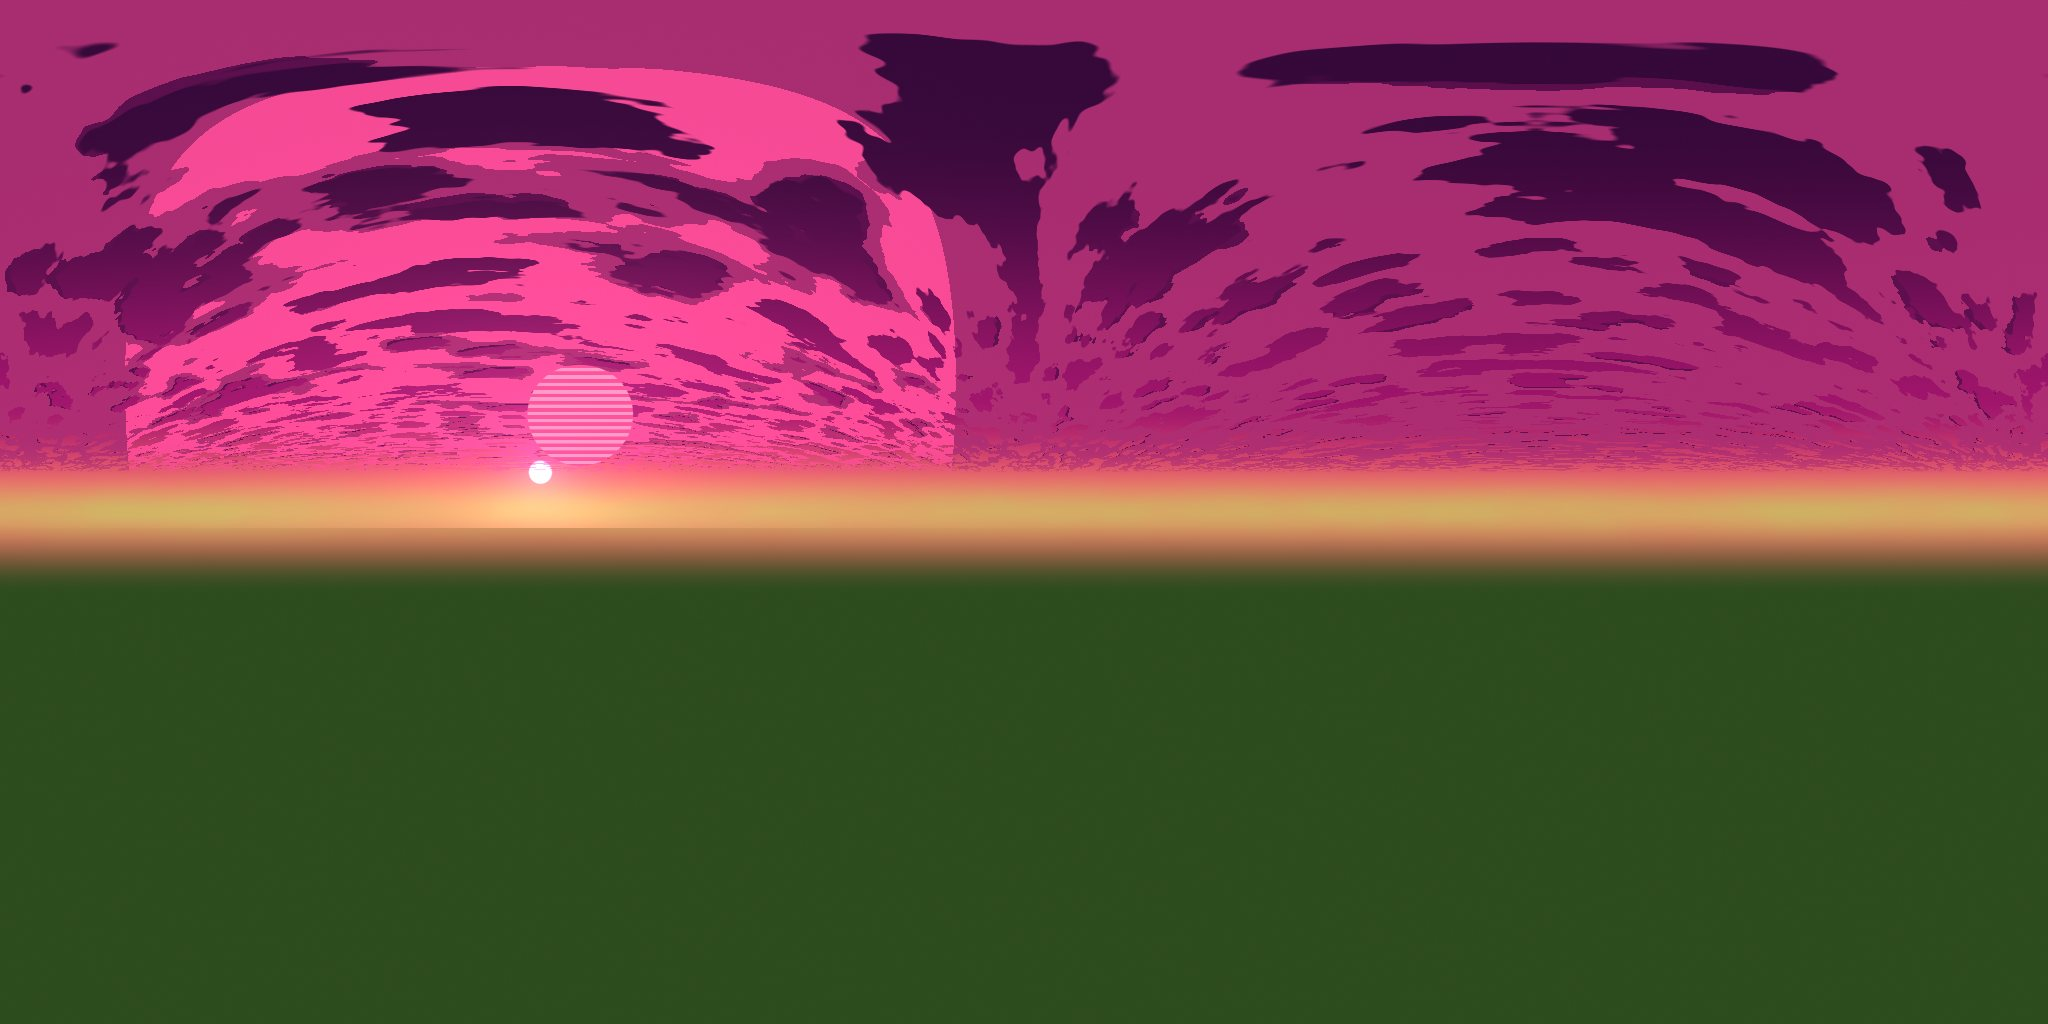
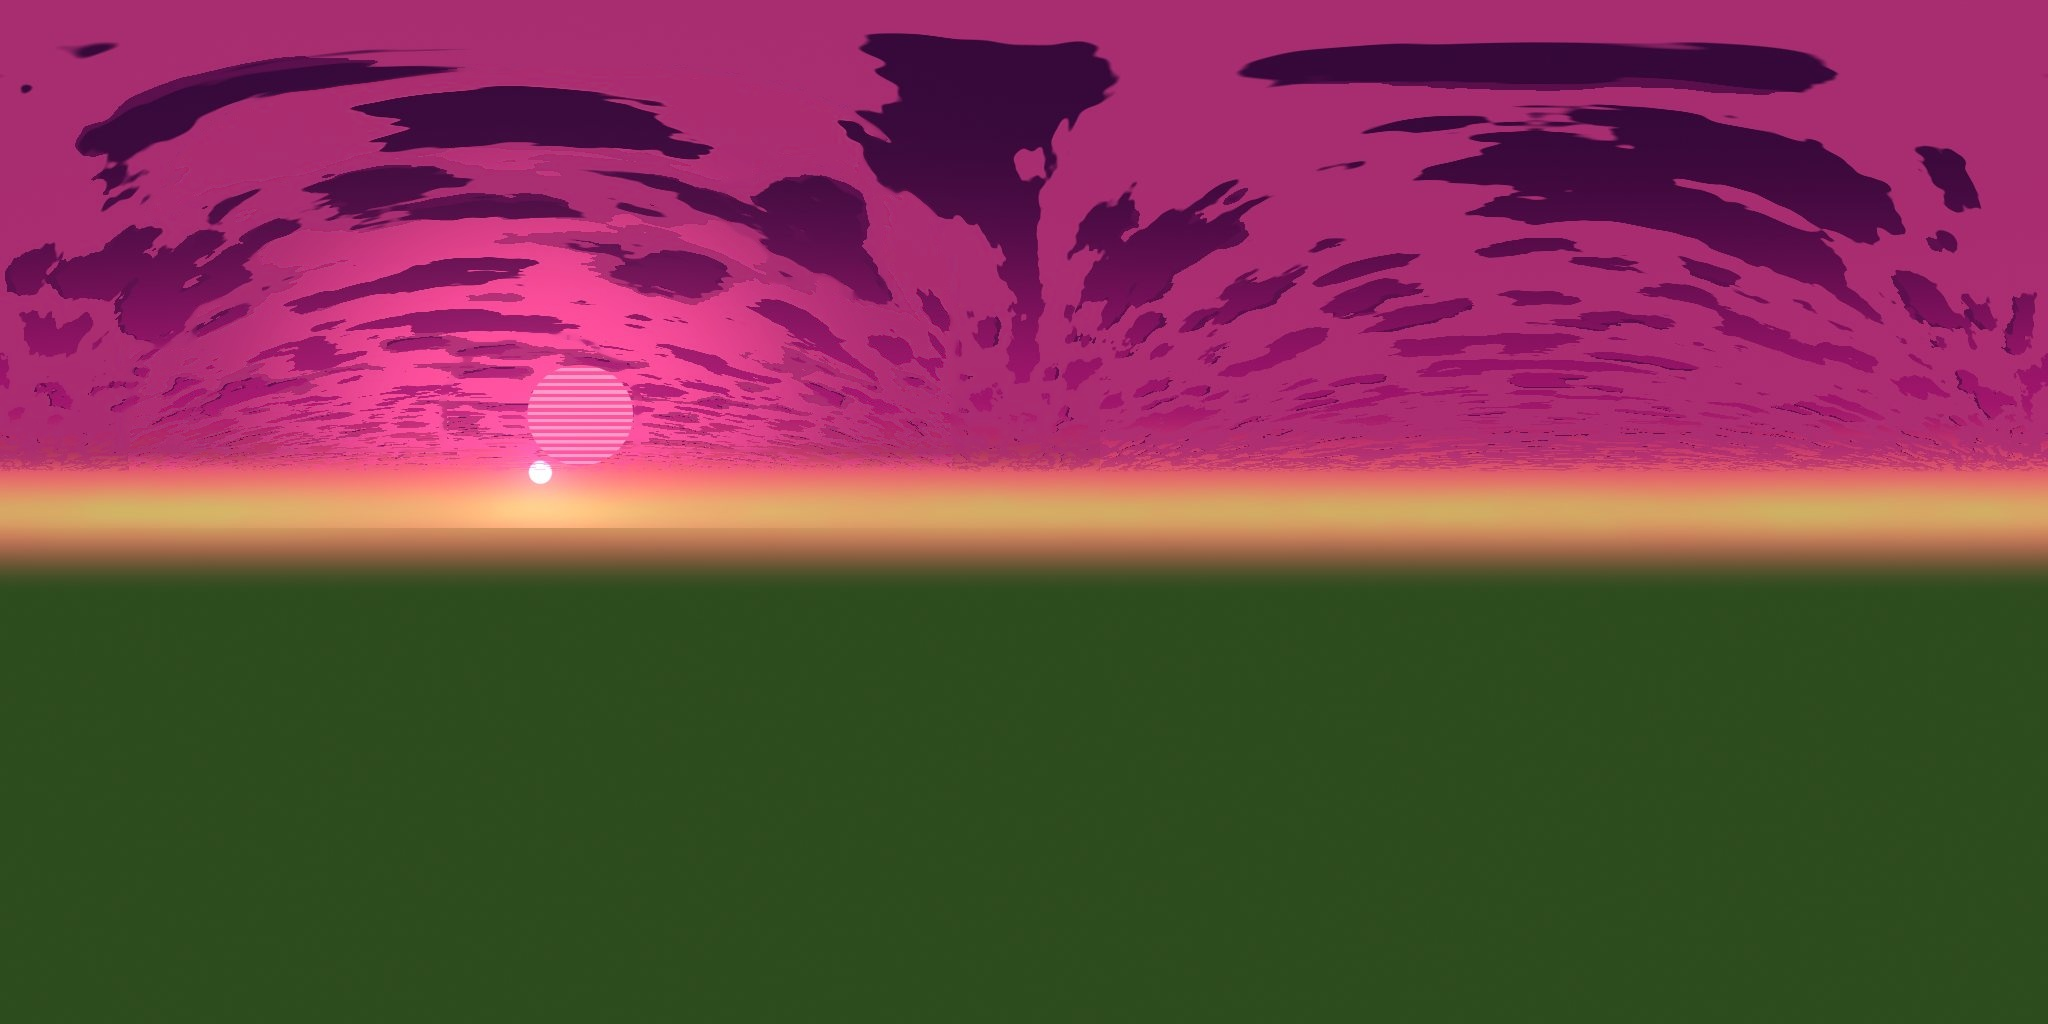
After the lift: effect pools refill cleanly, Skyforge freed; Skyforge sky without the two-tone patch
Crash firing the black hole after riding the lift into the next part:
- Effect pools (plasma bolts, flash lights, impacts, sparks, ...) are
  shared across levels; when Skyforge unloaded, their nodes went with
  it and the clean-up that drops dead entries failed on them (typed
  filter callbacks), so after the lift every shot raised errors.
- Skyforge's level models and the toxic barrel model were preloaded
  by their scripts, which stay cached after the level is gone: the
  next part ran with both levels in memory (~900 resources, ~26 MB
  of textures more). They're loaded when the level starts now.

Sky (owner asked): the panorama's bright pink patch behind the sun
had hard straight edges; it's now a soft glow round the sun
(tools/smooth_sky_glow.py, original kept in sky/source/).

Claude-Session: https://claude.ai/code/session_01Wu8RW4AcuKZbbVaeV4TQfo

Changed region(s): [[0.0625, 0.0625, 0.4688, 0.4688]]

diff --git a/tools/smooth_sky_glow.py b/tools/smooth_sky_glow.py
@@ -1,0 +1,41 @@
+"""Skyforge sky (owner asked): the map maker's panorama has a bright pink
+patch behind the sun with hard straight edges, so the sky read as two
+different colours. This keeps the bright pink only as a soft glow round the
+sun, fading smoothly into the rest of the sky; clouds, sun, planet stripes
+and the horizon are untouched.
+
+    python3 tools/smooth_sky_glow.py  (reads sky/source/panorama_original.jpg,
+                                       writes sky/panorama.jpg)
+"""
+import numpy as np
+from PIL import Image
+from scipy import ndimage
+
+DIR = "levels/skyforge_arena/sky/"
+SKY = np.array([170.0, 45.0, 113.0])      # the sky's own background colour
+BRIGHT = np.array([249.0, 75.0, 151.0])   # the patch's background colour
+SUN = (540.0, 420.0)                      # sun centre in the 2048 x 1024 image
+GLOW = (380.0, 330.0)                     # glow radii (x, y), px
+H_TOP, H_BOT = 452.0, 470.0               # the correction fades out into the horizon glow
+
+a = np.asarray(Image.open(DIR + "source/panorama_original.jpg").convert("RGB")).astype(np.float64)
+h, w, _ = a.shape
+ys, xs = np.mgrid[0:h, 0:w].astype(np.float64)
+# How much of each pixel is the patch's bright background.
+d = BRIGHT - SKY
+m = np.clip(((a - SKY) @ d) / (d @ d), 0.0, 1.0)
+# Keep it near the sun (smooth radial falloff), drop it elsewhere.
+r = np.sqrt(((xs - SUN[0]) / GLOW[0]) ** 2 + ((ys - SUN[1]) / GLOW[1]) ** 2)
+t = np.clip((r - 0.25) / 0.75, 0.0, 1.0)
+keep = 1.0 - t * t * (3.0 - 2.0 * t)
+region = np.clip((H_BOT - ys) / (H_BOT - H_TOP), 0.0, 1.0) * (xs < 1100)
+out = a - ((1.0 - keep) * m * region)[..., None] * d
+# The patch's outline (its anti-aliased rim) leaves a faint line: smooth
+# just a thin band along it.
+blob = ndimage.binary_closing((m > 0.5) & (region > 0.99) & (keep < 0.999), np.ones((41, 41)))
+blob = ndimage.binary_fill_holes(blob)
+rim = ndimage.binary_dilation(blob, iterations=4) & ~ndimage.binary_erosion(blob, iterations=4)
+rim &= ys < H_TOP
+smooth = np.stack([ndimage.median_filter(out[..., c], size=9) for c in range(3)], axis=-1)
+out[rim] = smooth[rim]
+Image.fromarray(np.clip(out + 0.5, 0, 255).astype(np.uint8)).save(DIR + "panorama.jpg", quality=95)

diff --git a/CLAUDE.md b/CLAUDE.md
@@ -225,7 +225,10 @@
   It must look exactly like the map maker (owner asked): its materials use
   `preview_lit.gdshaderinc`, a port of the map maker preview's three.js
   lighting / fog / sky reflections (`SkyforgePreviewLook`); check changes
-  side by side with the preview (`pipeline/make_preview.py`). Grunts turn
+  side by side with the preview (`pipeline/make_preview.py`). One change from
+  it (owner asked): the panorama's bright pink patch behind the sun had hard
+  straight edges (two-tone sky), so it's now a soft glow round the sun
+  (`tools/smooth_sky_glow.py`; original in `sky/source/`). Grunts turn
   back from drops deeper than 3 m (`ledge_drop`). `?level=battle` / `toxic`.
 - Toxic barrels (owner's model, `assets/props/toxic_barrel`, original in
   `source/`; owner asked): two on Skyforge; shot, they explode (green
